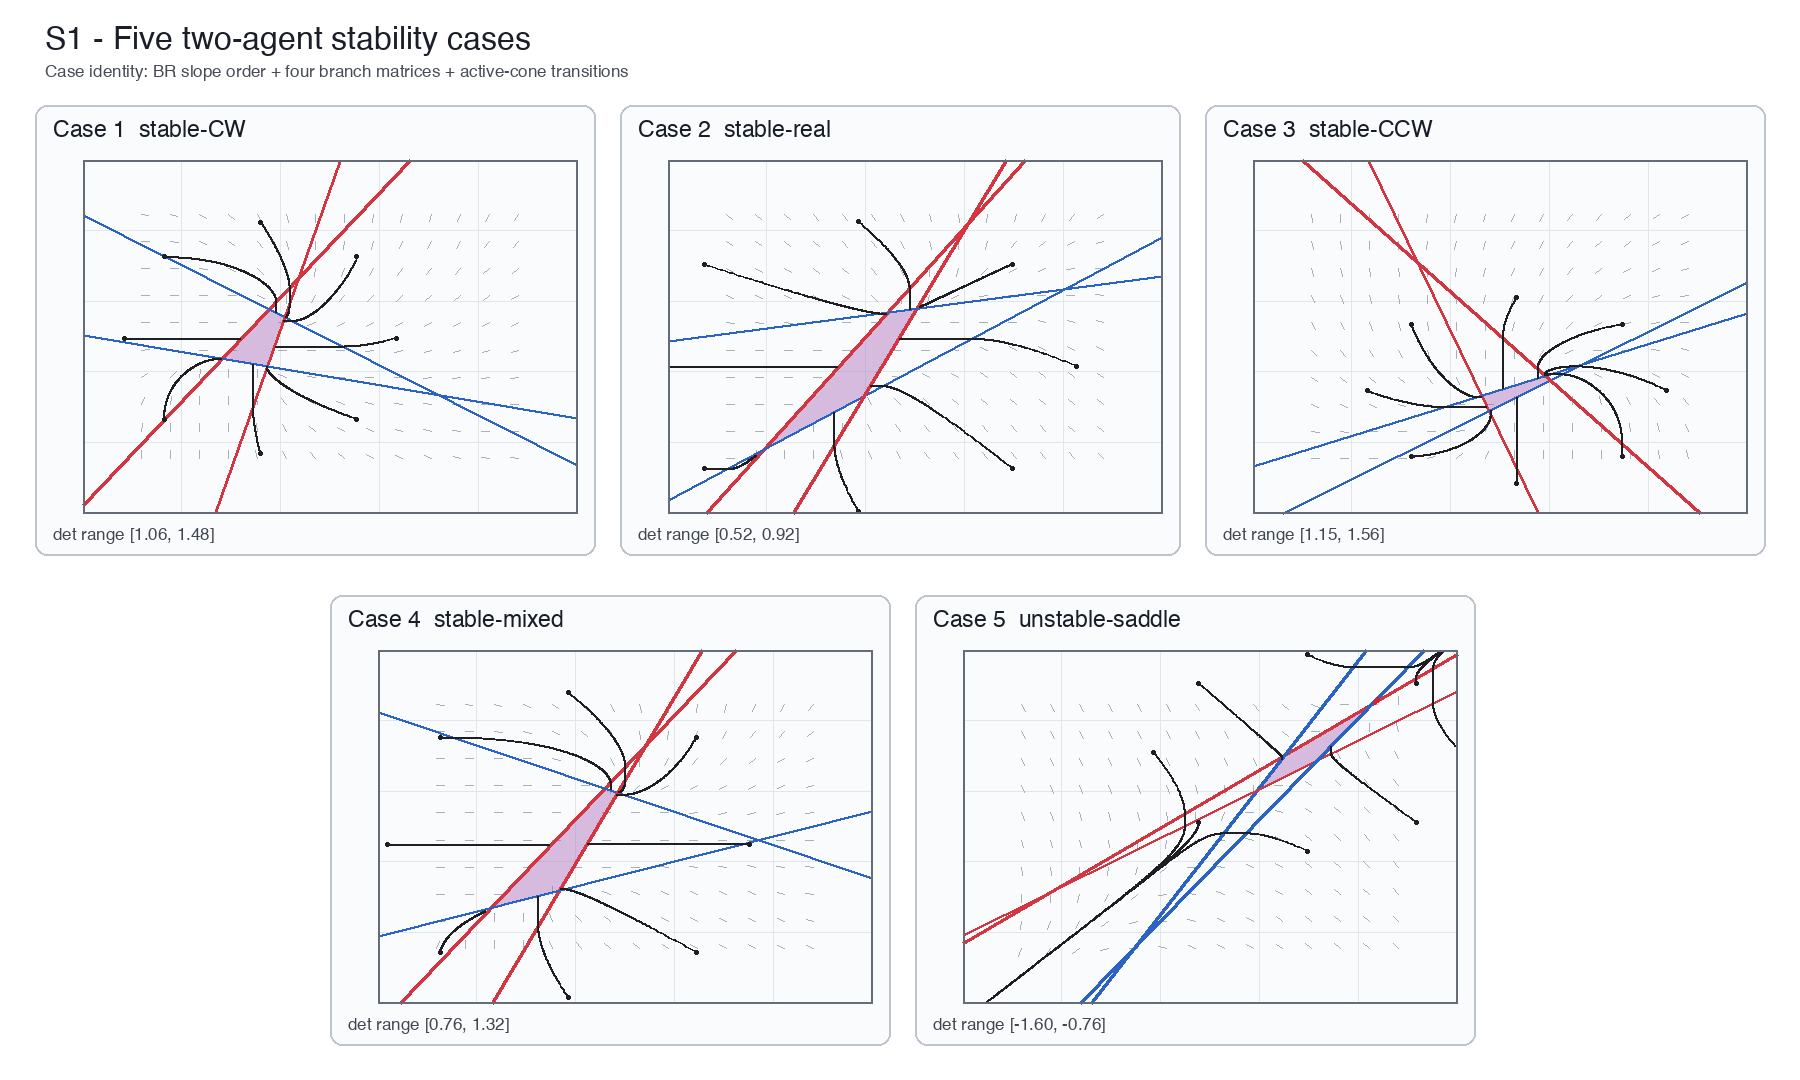
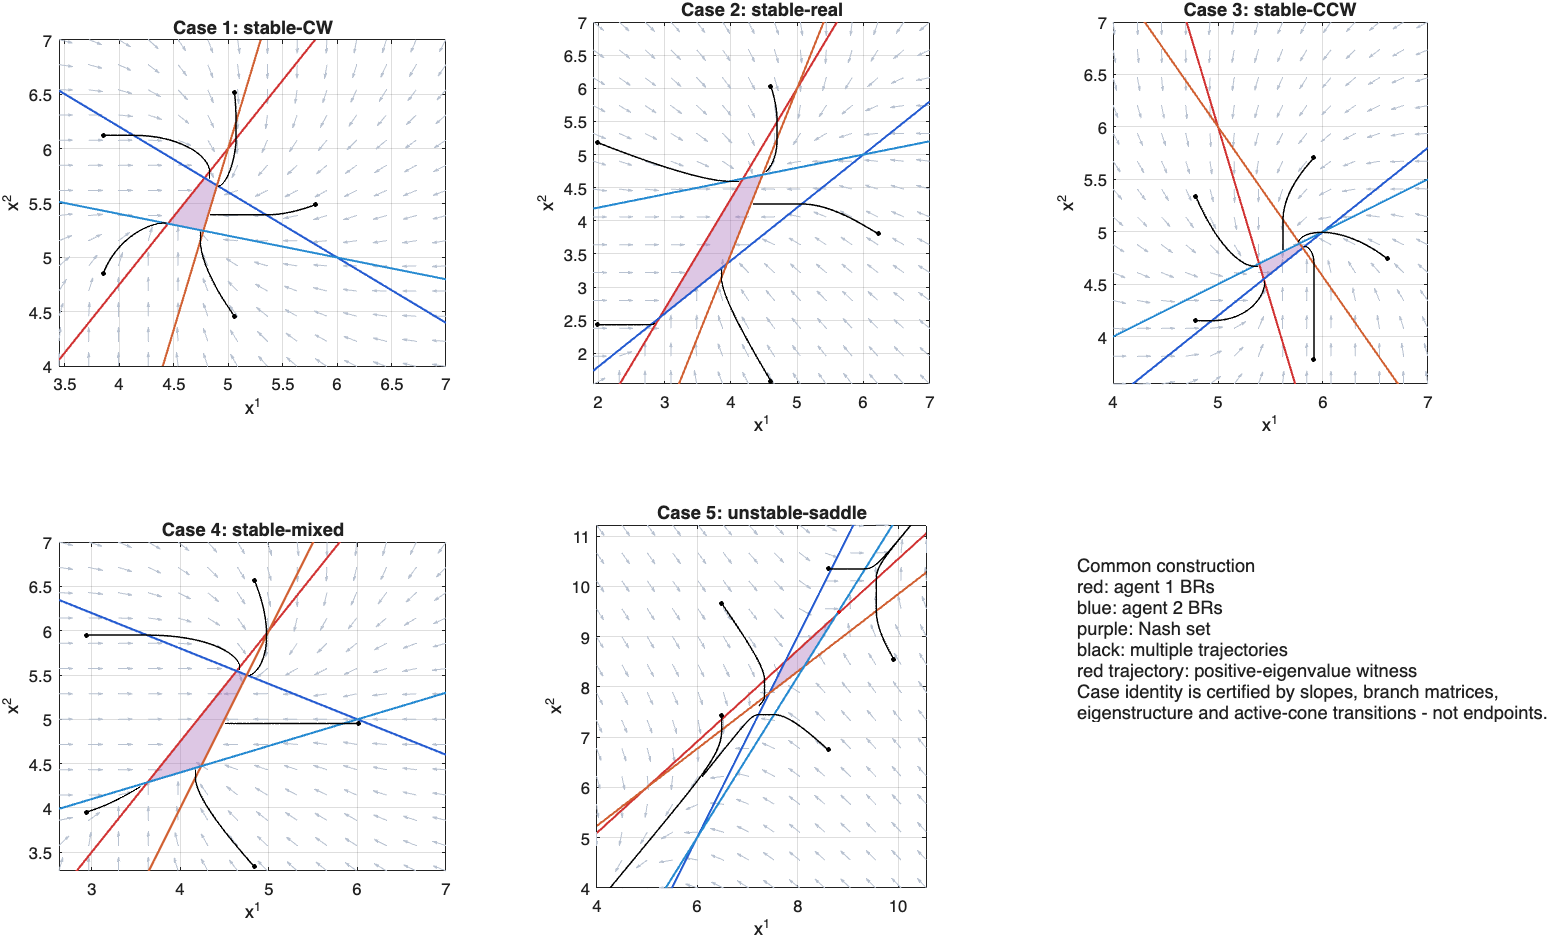
Verify S1 with MATLAB R2025b

diff --git a/experiments/run_s1_five_cases.m b/experiments/run_s1_five_cases.m
@@ -20,8 +20,9 @@ if ~exist(outputDir, 'dir')
 end
 
 cases = defineCases();
-report = struct([]);
-for k = 1:numel(cases)
+report = diagnoseCase(cases(1));
+validateCase(cases(1), report(1));
+for k = 2:numel(cases)
     report(k) = diagnoseCase(cases(k));
     validateCase(cases(k), report(k));
 end
@@ -227,7 +228,7 @@ tf = h1(1)*h1(2) <= 1e-10 && h2(1)*h2(2) <= 1e-10;
 end
 
 function [startAngle,endAngle,span] = selectedCone(game,xStar,pair)
-theta = linspace(0,2*pi,7201);
+theta = linspace(0,2*pi,1441);
 theta(end) = [];
 inside = false(size(theta));
 for k = 1:numel(theta)
@@ -298,7 +299,7 @@ end
 end
 
 function plotOverview(cases,report,path)
-fig = figure('Color','w','Position',[60,60,1450,850]);
+fig = figure('Color','w','Visible','off','Position',[60,60,1450,850]);
 for k = 1:5
     ax = subplot(2,3,k,'Parent',fig);
     hold(ax,'on'); axis(ax,'equal'); box(ax,'on'); grid(ax,'on');
@@ -309,7 +310,7 @@ for k = 1:5
     hi = max(allPoints,[],2)+1.0;
     if k == 5, hi = hi+0.8; end
     xlim(ax,[lo(1),hi(1)]); ylim(ax,[lo(2),hi(2)]);
-    [X,Y] = meshgrid(linspace(lo(1),hi(1),18),linspace(lo(2),hi(2),18));
+    [X,Y] = meshgrid(linspace(lo(1),hi(1),14),linspace(lo(2),hi(2),14));
     U = zeros(size(X)); V = U;
     for q = 1:numel(X)
         f = pseudoGradient(cases(k),[X(q);Y(q)]);
@@ -328,10 +329,10 @@ for k = 1:5
     end
     center = mean(vertices,2);
     radius = max(vecnorm(vertices-center,2,1))+0.75;
-    initialAngles = linspace(0,2*pi,9); initialAngles(end)=[];
+    initialAngles = linspace(0,2*pi,6); initialAngles(end)=[];
     for q = 1:numel(initialAngles)
         x0 = center + radius*[cos(initialAngles(q));sin(initialAngles(q))];
-        [~,traj] = simulateFixedStep(cases(k),x0,6,0.01);
+        [~,traj] = simulateFixedStep(cases(k),x0,4,0.03);
         plot(ax,traj(:,1),traj(:,2),'k-','LineWidth',0.9);
         plot(ax,traj(1,1),traj(1,2),'ko','MarkerSize',2.5,'MarkerFaceColor','k');
     end
@@ -342,7 +343,7 @@ for k = 1:5
         xStar = report(k).vertices(:,2);
         if branchAt(cases(k),xStar+1e-4*v) ~= 12, v=-v; end
         x0 = xStar+0.06*v/norm(v);
-        [~,traj] = simulateFixedStep(cases(k),x0,3,0.004);
+        [~,traj] = simulateFixedStep(cases(k),x0,2.2,0.015);
         plot(ax,traj(:,1),traj(:,2),'-','Color',[0.85,0.05,0.05],'LineWidth',2.4);
     end
     title(ax,sprintf('Case %d: %s',k,cases(k).label),'Interpreter','none');
@@ -354,7 +355,7 @@ text(ax,0,0.92,{'Common construction','red: agent 1 BRs','blue: agent 2 BRs', ..
     'Case identity is certified by slopes, branch matrices,','eigenstructure and active-cone transitions - not endpoints.'}, ...
     'VerticalAlignment','top','FontSize',11);
 try
-    exportgraphics(fig,path,'Resolution',180);
+    exportgraphics(fig,path,'Resolution',120);
 catch
     print(fig,path,'-dpng','-r180');
 end
@@ -367,7 +368,7 @@ titles = {'0-transitive: larger eigenvalue ray inside', ...
     '2-transitive: smaller eigenvalue ray separates exits', ...
     '1-transitive: complex pair, clockwise exit', ...
     'unstable: positive eigenvalue ray remains active'};
-fig = figure('Color','w','Position',[80,80,1300,780]);
+fig = figure('Color','w','Visible','off','Position',[80,80,1300,780]);
 for q = 1:4
     k=examples(q,1); j1=examples(q,2); j2=examples(q,3);
     b=report(k).branches(j1,j2);
@@ -402,7 +403,7 @@ for q = 1:4
     xlabel(ax,'x^1-x_*^1'); ylabel(ax,'x^2-x_*^2');
 end
 try
-    exportgraphics(fig,path,'Resolution',180);
+    exportgraphics(fig,path,'Resolution',120);
 catch
     print(fig,path,'-dpng','-r180');
 end

diff --git a/audit/evidence/verify_s1.py b/audit/evidence/verify_s1.py
@@ -17,8 +17,8 @@ from pathlib import Path
 
 ROOT = Path(__file__).resolve().parents[2]
 OUT_JSON = ROOT / "audit" / "evidence" / "s1_checks.json"
-OUT_CSV = ROOT / "audit" / "implementation" / "s1_branch_diagnostics.csv"
-FIG_DIR = ROOT / "audit" / "implementation" / "figures"
+OUT_CSV = ROOT / "audit" / "evidence" / "s1_independent_branch_diagnostics.csv"
+FIG_DIR = ROOT / "results" / "s1" / "independent"
 
 CASES = [
     dict(case=1, label="stable-CW", s1=(0.8, 0.3), s2=(-0.6, -0.2), stable=True,

diff --git a/audit/implementation/S1.md b/audit/implementation/S1.md
@@ -1,7 +1,8 @@
 # S1 — two-agent five-case stability reconstruction
 
 Date: 2026-09-18
-Status: implementation, independent algebra checks, and evidence figures complete; **MATLAB runtime execution remains unavailable in this shell**.
+Status: complete; MATLAB R2025b clean batch execution, independent algebra checks,
+and visual inspection of both MATLAB figures passed.
 
 This task changes no file under `source_material/` or `reference/`. The legacy
 `ifac2023/case1.m`–`case5.m` files were inspected only as candidate geometric
@@ -162,16 +163,21 @@ determinant signs, which Remark 3.9/Theorem 3.10 do not cover.
 
 ## 5. Reproducible entry and outputs
 
-- MATLAB entry: `experiments/run_s1_five_cases.m`. From a clean MATLAB workspace,
-  call `run_s1_five_cases`; it writes two figures, two CSV tables, and `s1_report.mat`
-  under ignored `results/s1/`. It uses a deterministic fixed-step RK4 integrator only
-  for the illustrative trajectories.
+- MATLAB entry: `experiments/run_s1_five_cases.m`. It was run from a clean MATLAB
+  R2025b Update 7 (`maci64`) batch process and wrote two figures, two CSV tables, and
+  `s1_report.mat` under ignored `results/s1/`. It uses a deterministic fixed-step RK4
+  integrator only for the illustrative trajectories.
 - Independent checker: `audit/evidence/verify_s1.py`. It directly recomputes the 20
-  branches without the previous prototype, writes `audit/evidence/s1_checks.json` and
-  the committed branch CSV, and renders the evidence figures.
-- Five-case overview: `audit/implementation/figures/S1_five_case_overview.png`.
-- Eigenvector/domain explanation: `audit/implementation/figures/S1_eigenvectors_transitions.png`.
-- Exact diagnostics: `audit/implementation/s1_branch_diagnostics.csv`.
+  branches without MATLAB or the previous prototype and writes
+  `audit/evidence/s1_checks.json` plus
+  `audit/evidence/s1_independent_branch_diagnostics.csv`. Its optional figures
+  go to ignored `results/s1/independent/` and cannot overwrite the MATLAB evidence.
+- MATLAB five-case overview: `audit/implementation/figures/S1_five_case_overview.png`.
+- MATLAB eigenvector/domain explanation:
+  `audit/implementation/figures/S1_eigenvectors_transitions.png`.
+- MATLAB exact diagnostics: `audit/implementation/s1_branch_diagnostics.csv` and
+  `audit/implementation/s1_case_summary.csv`.
+- Runtime record and output hashes: `audit/evidence/s1_matlab_run.json`.
 
 The overview intentionally contains multiple initial states and a vector field, but
 neither those trajectories nor a passing script is the stability proof. They visualize
@@ -201,10 +207,11 @@ not an implementation of X1.
 | overview plus eigenvector/domain-transition figure saved | pass |
 | identity does not rely on one trajectory or test success | pass |
 | no mixed-determinant extrapolation | pass |
-| MATLAB execution | not run: neither `matlab` nor `octave` is available in this shell |
+| MATLAB execution | pass: `/Applications/MATLAB_R2025b.app/bin/matlab -batch`, R2025b Update 7, `maci64` |
 
-The independent checker ran successfully on 2026-09-18 and produced 5 case records,
-20 branch records, and both visually inspected PNGs. This is formula arithmetic and
-illustrative integration evidence, not a claim that MATLAB itself ran. The MATLAB
-entry still needs a clean-session execution when a callable runtime becomes available;
-that environment limitation does not change the case identities or algebra above.
+MATLAB and the independent checker both ran successfully on 2026-09-18. MATLAB
+produced 5 case records, 20 branch records, `s1_report.mat`, and both visually
+inspected PNGs. The independent calculation reproduced the determinant signs,
+eigenvalues, cone classifications, and Case 5 witnesses. The initial MATLAB attempt
+exposed a structure preallocation incompatibility; the entry was corrected and then
+rerun from the beginning before acceptance.

diff --git a/audit/FIGURE_MANIFEST.md b/audit/FIGURE_MANIFEST.md
@@ -25,7 +25,7 @@
 | T3.2 p35(41) | x1-x2，regular Nash外围8域，比较各域流向/跨域转移 | Assumption3；caption case编号疑错；无专门对应脚本 | 无 | 支撑；非首选；重绘，与T3.4对照 |
 | T3.3 p36(42) | 二维局部状态/eigenvector图，acute/obtuse及边界穿越 | 局部线性系统几何，无唯一数值脚本 | 无 | 支撑；非首选；文档保留，可与E3合并但标不同论证角色 |
 | T3.4 p42(48) | x1-x2，pinched Nash与外围10域；比较秩退化情形 | Assumption4；caption case指代疑错，无独立入口 | 无 | 支撑；非首选；与T3.2并列保留 |
-| T3.5 p44(50)，a–e | 五张x1-x2向量场、BR、Nash；比较四类stable场与unstable场 | S1已用新参数完成：`experiments/run_s1_five_cases.m`；独立5例/20分支核查、总览及eigenvector/域转移图见`audit/implementation/S1.md`。L ifac2023仍仅是候选参考；当前shell未执行MATLAB | 已有完整五例、参数/判据表及不稳定active-cone见证 | 核心、高优先S1；**实现完成，MATLAB待环境复跑**；五例全部保留；网站可用紧凑总览/附图解释不稳定例和变换适用边界 |
+| T3.5 p44(50)，a–e | 五张x1-x2向量场、BR、Nash；比较四类stable场与unstable场 | S1已用新参数完成：`experiments/run_s1_five_cases.m`；MATLAB R2025b与独立5例/20分支核查、总览及eigenvector/域转移图见`audit/implementation/S1.md`。L ifac2023仍仅是候选参考 | 已有MATLAB完整五例、参数/判据表及不稳定active-cone见证 | 核心、高优先S1；**实现与运行验收完成**；五例全部保留；网站可用紧凑总览/附图解释不稳定例和变换适用边界 |
 | T3.6 p45(51)，a–e | 同上五类，但pinched/秩零几何；与T3.5比较 | L cdc2023为候选参考，原图对应未确认；正文c/e指代需依据数学case判定 | 无 | 核心；组合候选；保留全部五例及与Assumption3差异 |
 | T3.7 p45(51)，a–c | 三张非紧Nash集及向量场，展示compact结论边界 | 未找到对应三套矩阵/脚本；不能从图像唯一推回 | 无 | 核心边界；候选；作者确认必做、优先级较后S2；可用明确标注的新参数表达主要构型，不以缺源省略 |
 | T3.8 p46(52)，a/b | (a)高维状态的曲面Nash；(b)更多目标下多边形Nash，说明二维双目标方法不能直接推广 | r1=2 或 s1=3 的示意；无完整参数脚本 | 无 | 边界；非首选；保留讨论性插图，非当前动力学复现承诺；与Chapter2高维参数化区别说明 |

diff --git a/PROJECT_STATE.md b/PROJECT_STATE.md
@@ -2,7 +2,7 @@
 
 ## 当前阶段
 
-2026-09-18：P1三种收益性质与独立trap已完成实现、证据图、独立核查及MATLAB R2025b batch复跑。前三组共享同一自身动力学，仅改变外部性，已有连续时间精确符号证书；trap忠实使用实际legacy参数及scaled-own-gradient规则。独立`dt=.001`见证为`0.020<1.819`，MATLAB `dt=.002`见证为`0.020<1.820`，均使两项收益严格下降。S1仍保持代数完成、MATLAB待复跑状态。
+2026-09-18：P1三种收益性质与独立trap已完成实现、证据图、独立核查及MATLAB R2025b batch复跑。前三组共享同一自身动力学，仅改变外部性，已有连续时间精确符号证书；trap忠实使用实际legacy参数及scaled-own-gradient规则。独立`dt=.001`见证为`0.020<1.819`，MATLAB `dt=.002`见证为`0.020<1.820`，均使两项收益严格下降。S1也已完成MATLAB R2025b干净批处理复跑，五例/20分支与两张MATLAB图通过验收。
 
 ## 最新完成
 
@@ -19,8 +19,8 @@
 
 不要求参数/画法复刻；须保留主要数学内容及case区别。原型和旧case代码是参考而非基线。缺原图脚本可自主构造并记录。有限网格/测试通过不等于定理证明或内容完整。网站尚未发布，当前不设计公共API、不自动创建session、不使用subagent。
 
-MATLAB不在shell的`PATH`中，但已定位并成功调用`/Applications/MATLAB_R2025b.app/bin/matlab`。P1运行通过；S1尚未复跑。P1 trap的逐时弱性质仍是有限网格证据（独立`dt=.001`、MATLAB输出`dt=.002`）；前三组另有精确连续时间公式。
+MATLAB不在shell的`PATH`中，但已定位并成功调用`/Applications/MATLAB_R2025b.app/bin/matlab`。P1与S1均运行通过。S1两张提交图现为MATLAB实际输出，独立Python可选渲染不会覆盖它们。P1 trap的逐时弱性质仍是有限网格证据（独立`dt=.001`、MATLAB输出`dt=.002`）；前三组另有精确连续时间公式。
 
 ## 当前阻碍
 
-没有必须现在询问作者的问题。P1已无运行环境待办；S1仍可在后续单独做MATLAB干净会话复跑。OPEN_QUESTIONS.md保存后期执行待办。每个后续session只做对应任务、更新记忆并本地提交后停止。
+没有必须现在询问作者的问题。P1与S1均无运行环境待办。OPEN_QUESTIONS.md保存后期执行待办。每个后续session只做对应任务、更新记忆并本地提交后停止。

diff --git a/DECISIONS.md b/DECISIONS.md
@@ -37,6 +37,7 @@
 | D19 | S1不用legacy文件名认case；采用满足Remark3.9斜率序的五套新参数，并用统一own curvature `-1`与unit alpha隔离几何差异 | 作者允许自构参数；T Remark3.9；M0规则等价条件 | S1 Case1–5 | case身份由斜率、20个分支矩阵、域与Nash几何共同给出 | 作者范围＋直接计算 |
 | D20 | 四稳定例必须四分支全`det>0`且Hurwitz；不稳定例保留四分支全`det<0`，并以正特征值ray位于selected active cone内作直接见证 | T Theorem3.10及Case5证明段 | S1 branch diagnostics | 多初值轨迹只作插图，不能代替稳定性依据；不外推mixed-det | 论文条件＋独立代数 |
 | D21 | Case1/3保留无实特征向量的顺/逆时针旋转；Case2/4显式标0/1/2-transitive域；坐标变换只作后续分析工具，不改变Case5真实不稳定性 | T Lemma3.6、Remarks3.7–3.8；作者Q5 | S1、后续X1 | X1不得把映射像的收敛写成原系统自动稳定 | 论文＋作者要求 |
+| D25 | S1提交图以MATLAB R2025b实际输出为准；独立Python渲染移至ignored results且不得覆盖MATLAB证据 | 作者要求完成MATLAB运行；本机实际batch执行 | S1 figures/runtime record | 后续图区分MATLAB产物与独立核查，不能以替代渲染冒充MATLAB运行 | 作者要求＋运行证据 |
 
 ## P1实施更新
 

diff --git a/IMPLEMENTATION_PLAN.md b/IMPLEMENTATION_PLAN.md
@@ -19,7 +19,7 @@
 | 任务 | 优先级 | 核心产物 | 依赖 | 状态 |
 |---|---|---|---|---|
 | M0 符号与动力学契约 | 首先 | 正确agent/objective映射、RHS选择规则、Q1对应核查 | 无 | 已完成（静态核查；见audit/implementation/M0.md） |
-| S1 两agent五case | 高；作者特别强调3.5 | 3.5五case完整比较与eigenvector证据 | M0公共约定；不必等Q1整项关闭 | 已完成（代数/独立图通过；MATLAB待环境复跑，见S1.md） |
+| S1 两agent五case | 高；作者特别强调3.5 | 3.5五case完整比较与eigenvector证据 | M0公共约定；不必等Q1整项关闭 | 已完成（MATLAB R2025b＋独立核查通过，见S1.md） |
 | P1 收益性质与trap | 高 | nonweak/all/weak三组、独立trap图 | M0；Q1限制Fig4.3纸面/legacy来源标签 | 已完成（前三组精确代数；trap实际规则有限采样；MATLAB R2025b复跑通过，见P1.md） |
 | I1 激励与预算 | 高 | 设计几何、sigma/omega、激励前后收益及预算 | M0；可复用P1诊断 | 待执行 |
 | X1 变换与稳定性 | 高 | 原/像/独立轨迹与Lyapunov、适用边界 | M0；S1提供case解释 | 待执行 |

diff --git a/OPEN_QUESTIONS.md b/OPEN_QUESTIONS.md
@@ -30,7 +30,7 @@
 ## Q4 — 缺原图脚本与case重建（S1/S2）
 
 - S1状态：**已关闭五case重建部分**。本地case脚本仅作候选参考；S1采用新参数，已按Remark3.9斜率序、全部分支矩阵、eigenstructure、active cone与Nash几何确认Case1–5身份。
-- 运行环境待办：`experiments/run_s1_five_cases.m`尚未在MATLAB执行，因为当前shell无`matlab`/`octave`入口；独立公式核查已通过。这是复跑待办，不是case身份疑问。
+- 运行状态：已定位`/Applications/MATLAB_R2025b.app/bin/matlab`并以R2025b Update 7干净批处理执行；两张图、两张CSV及MAT均生成并核查。无S1复跑待办。
 - S2剩余问题：3.6与3.7仍无已确认原图入口，尤其3.7三种noncompact构型仍需后续自构。
 - 为什么重要：必须覆盖不同case及主要数学内容，不以缺源省略。
 - 当前证据：作者授权AI补足，不要求原图一致；3.5优先，3.7必做但较后。
